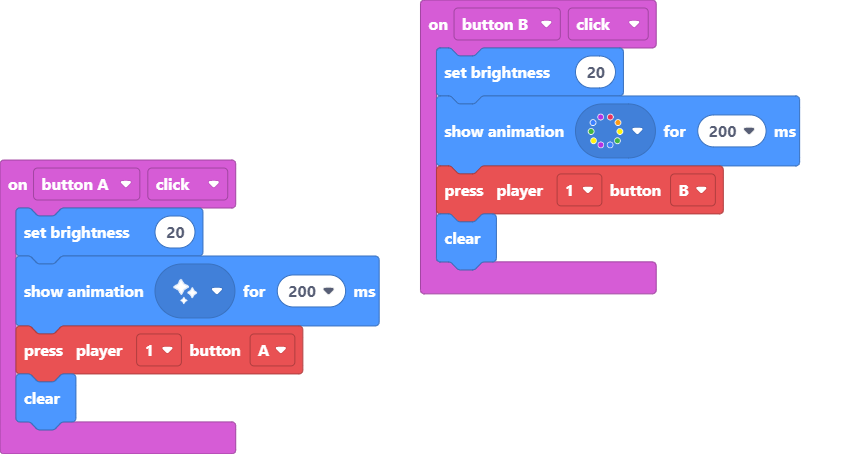
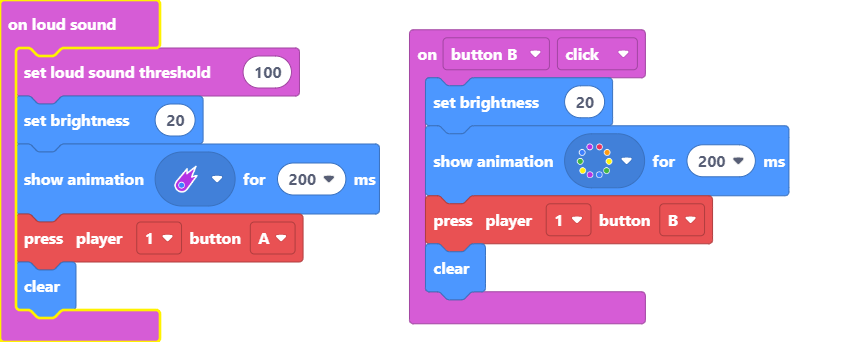
Update main.blocks, main.ts

diff --git a/main.ts b/main.ts
@@ -1,6 +1,7 @@
-input.buttonA.onEvent(ButtonEvent.Click, function () {
+input.onLoudSound(function () {
+    input.setLoudSoundThreshold(100)
     light.setBrightness(20)
-    light.showAnimation(light.sparkleAnimation, 200)
+    light.showAnimation(light.cometAnimation, 200)
     makerController.player1.press(ArcadeButton.A)
     light.clear()
 })
